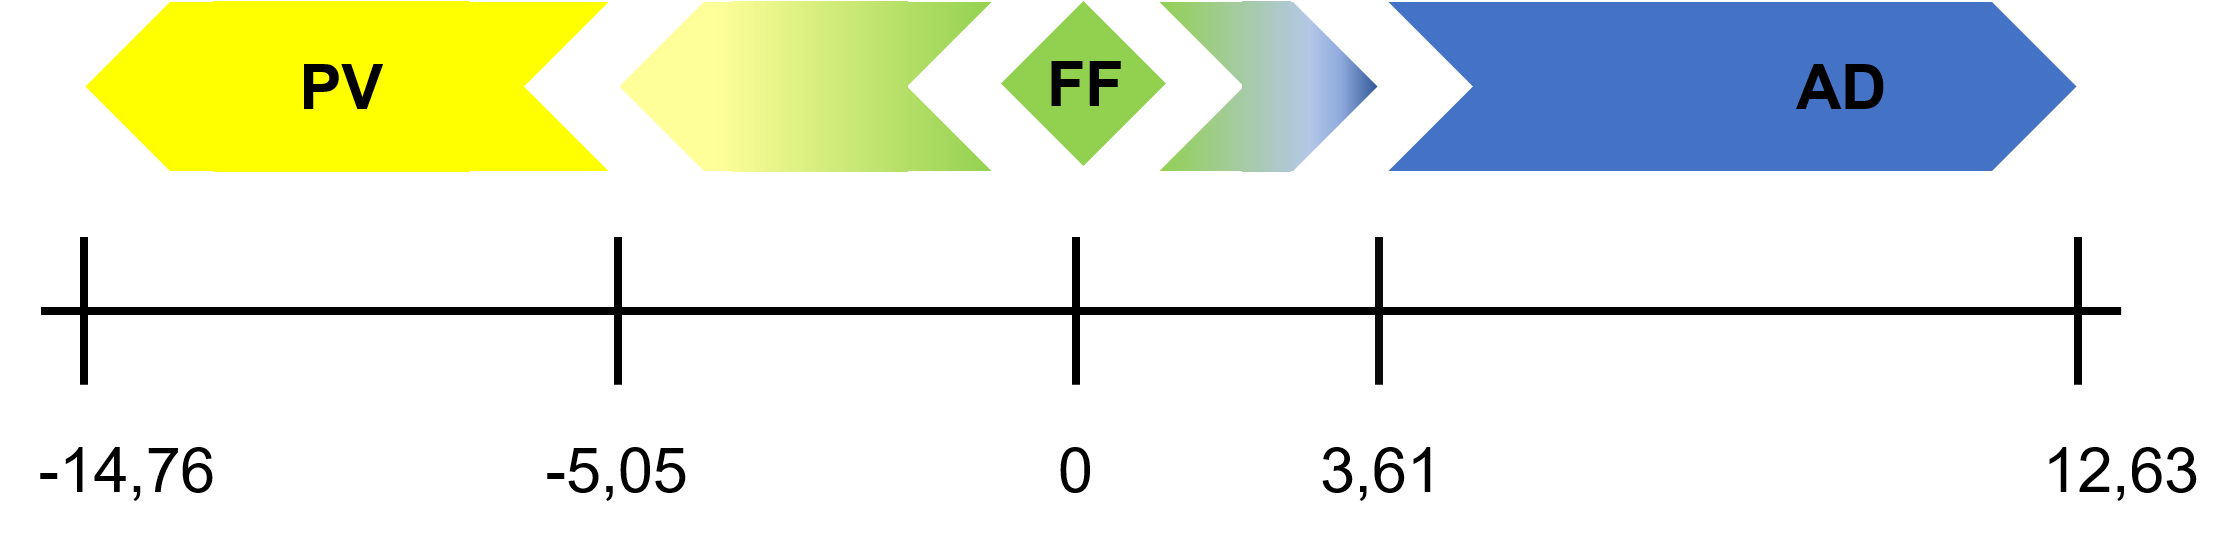
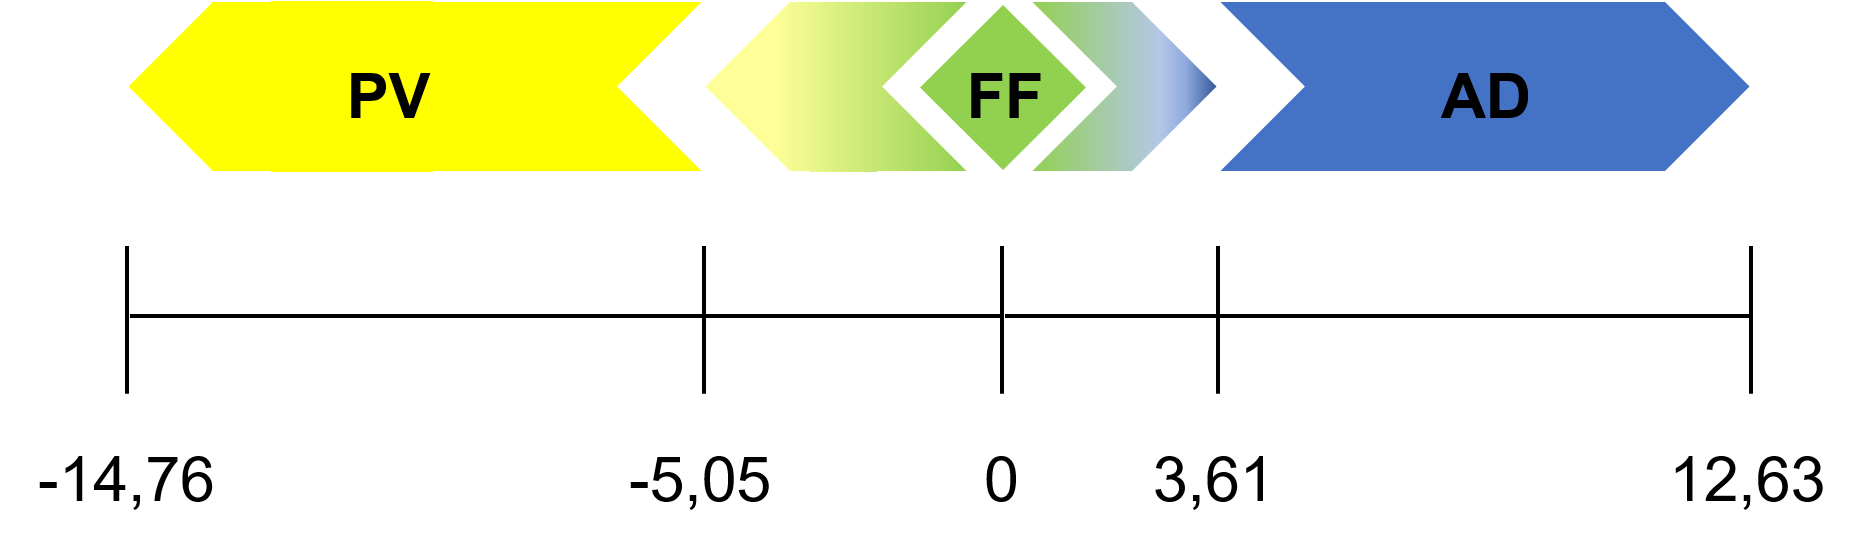
feat: image and styling

diff --git a/frontend/src/pages/ScoreDisplay.js b/frontend/src/pages/ScoreDisplay.js
@@ -115,9 +115,14 @@ const ScoreDisplay = () => {
   };
 
   const getScorePosition = score => {
-    const maxScore = 12;
-    const scoreOffset = (100 * (parseFloat(score) + maxScore)) / (2 * maxScore);
-    return scoreOffset;
+    const scaleStart = 10;
+    const scaleEnd = 90;
+    const scaleLength = scaleEnd - scaleStart;
+    const minScore = -14.76;
+    const maxScore = 12.63;
+    const normalizedScore = (score - minScore) / (maxScore - minScore);
+    const position = scaleStart + normalizedScore * scaleLength;
+    return position;
   };
 
   return (
@@ -137,24 +142,25 @@ const ScoreDisplay = () => {
               style={{
                 position: 'absolute',
                 left: `${getScorePosition(score.total_score)}%`,
-                bottom: '92px',
+                bottom: '40px',
               }}
             >
               <div
                 style={{
-                  width: '5px',
-                  height: '86px',
+                  width: '3px',
+                  height: '105px',
                   backgroundColor: 'red',
                 }}
               />
               <div
                 style={{
                   position: 'absolute',
-                  bottom: '90px',
+                  bottom: '107px',
+                  color: 'red',
                   left: '50%',
                   transform: 'translateX(-50%)',
-                  color: 'black',
                   fontWeight: 'bold',
+                  fontSize: '40px',
                 }}
               >
                 {score.total_score}
@@ -162,7 +168,7 @@ const ScoreDisplay = () => {
             </div>
             <button
               type="button"
-              className="btn btn-link mb-3 link custom-link"
+              className="btn btn-link mb-3"
               onClick={handleBack}
             >
               Zurück

diff --git a/frontend/src/components/Navigation.js b/frontend/src/components/Navigation.js
@@ -16,7 +16,11 @@ const NavBar = ({ username }) => {
 
   const isNotHomePage = () => {
     const homePagePath = '/';
-    return location.pathname !== homePagePath;
+    const registerPagePath = '/register';
+    return (
+      location.pathname !== homePagePath &&
+      location.pathname !== registerPagePath
+    );
   };
 
   return (
@@ -47,7 +51,7 @@ const NavBar = ({ username }) => {
         </Container>
       </div>
 
-      <Navbar bg="light" expand="lg" className="custom-navbar">
+      <Navbar expand="lg" className="custom-navbar">
         <Container>
           <Navbar.Brand href="/">
             <img
